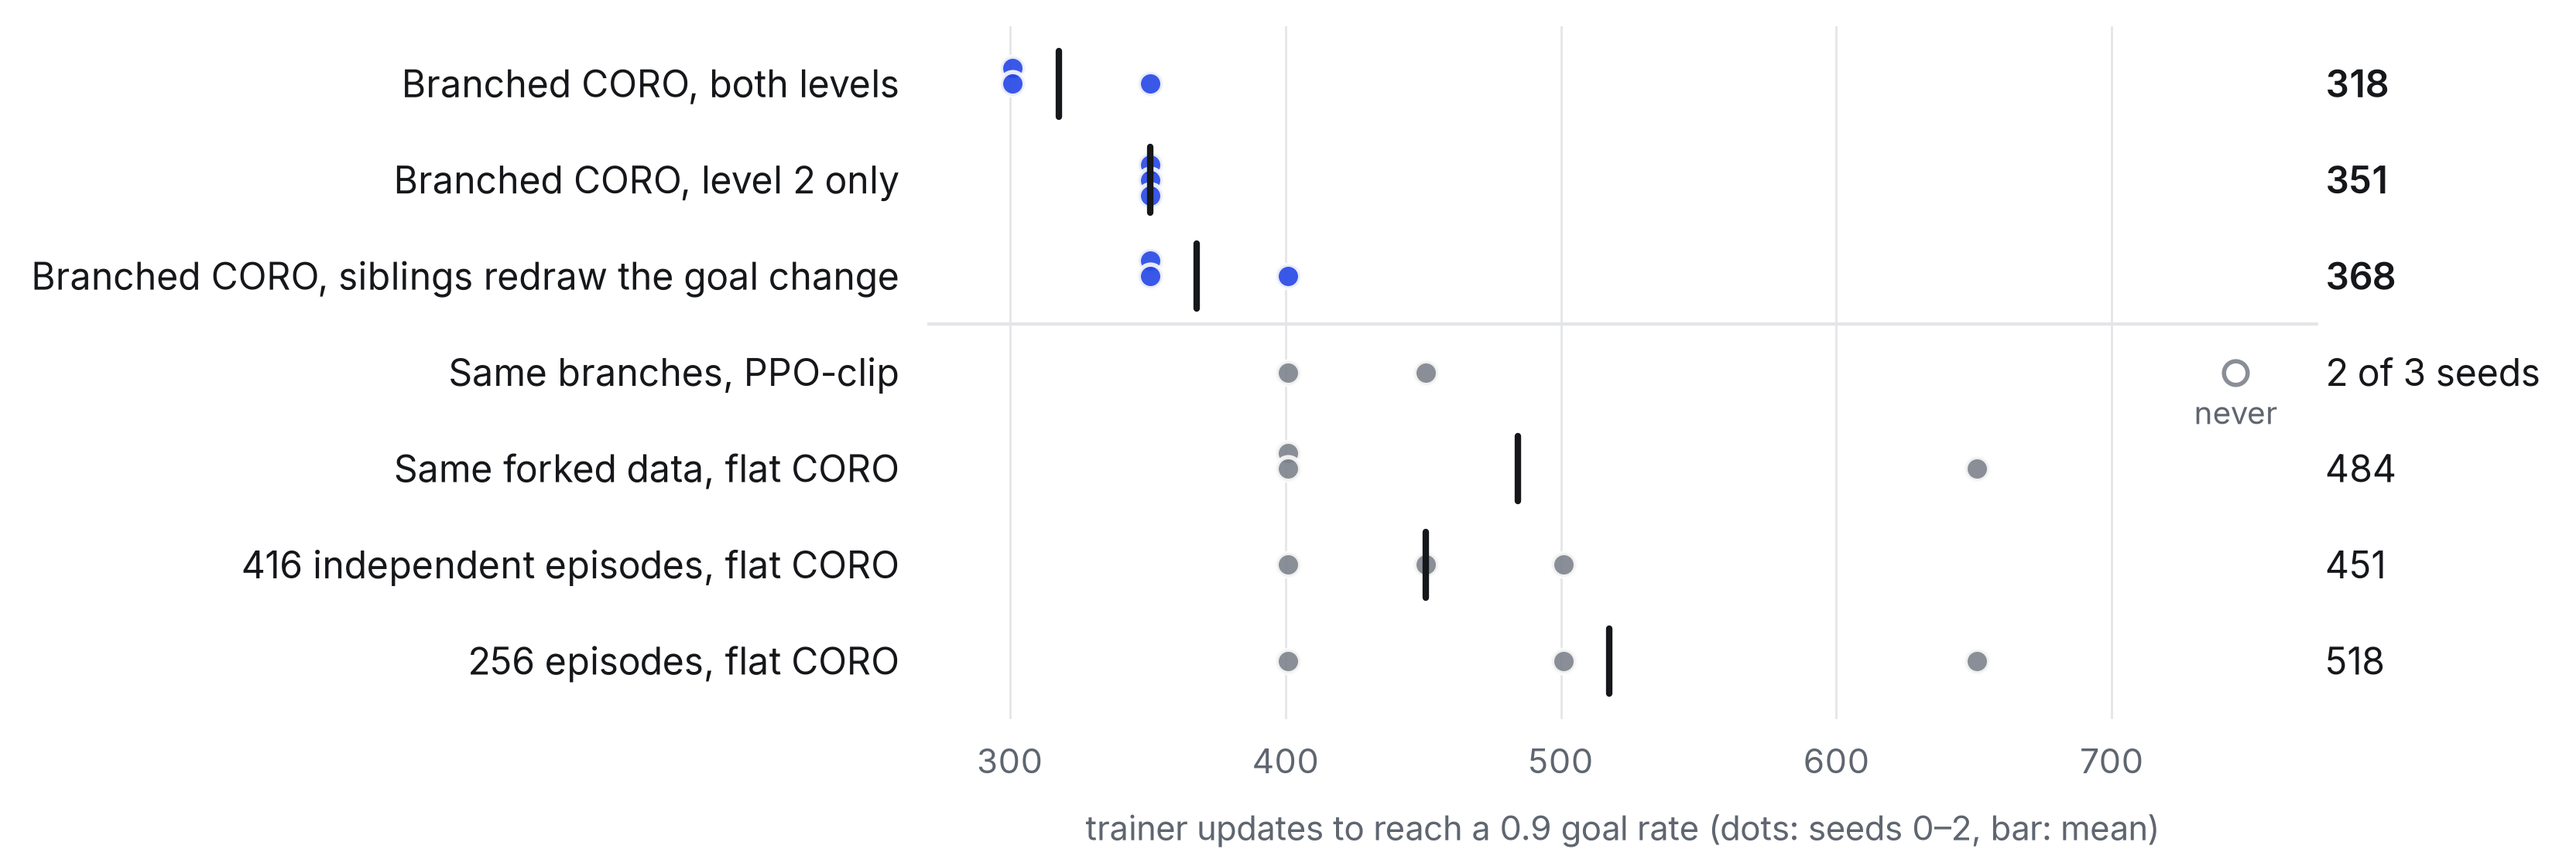
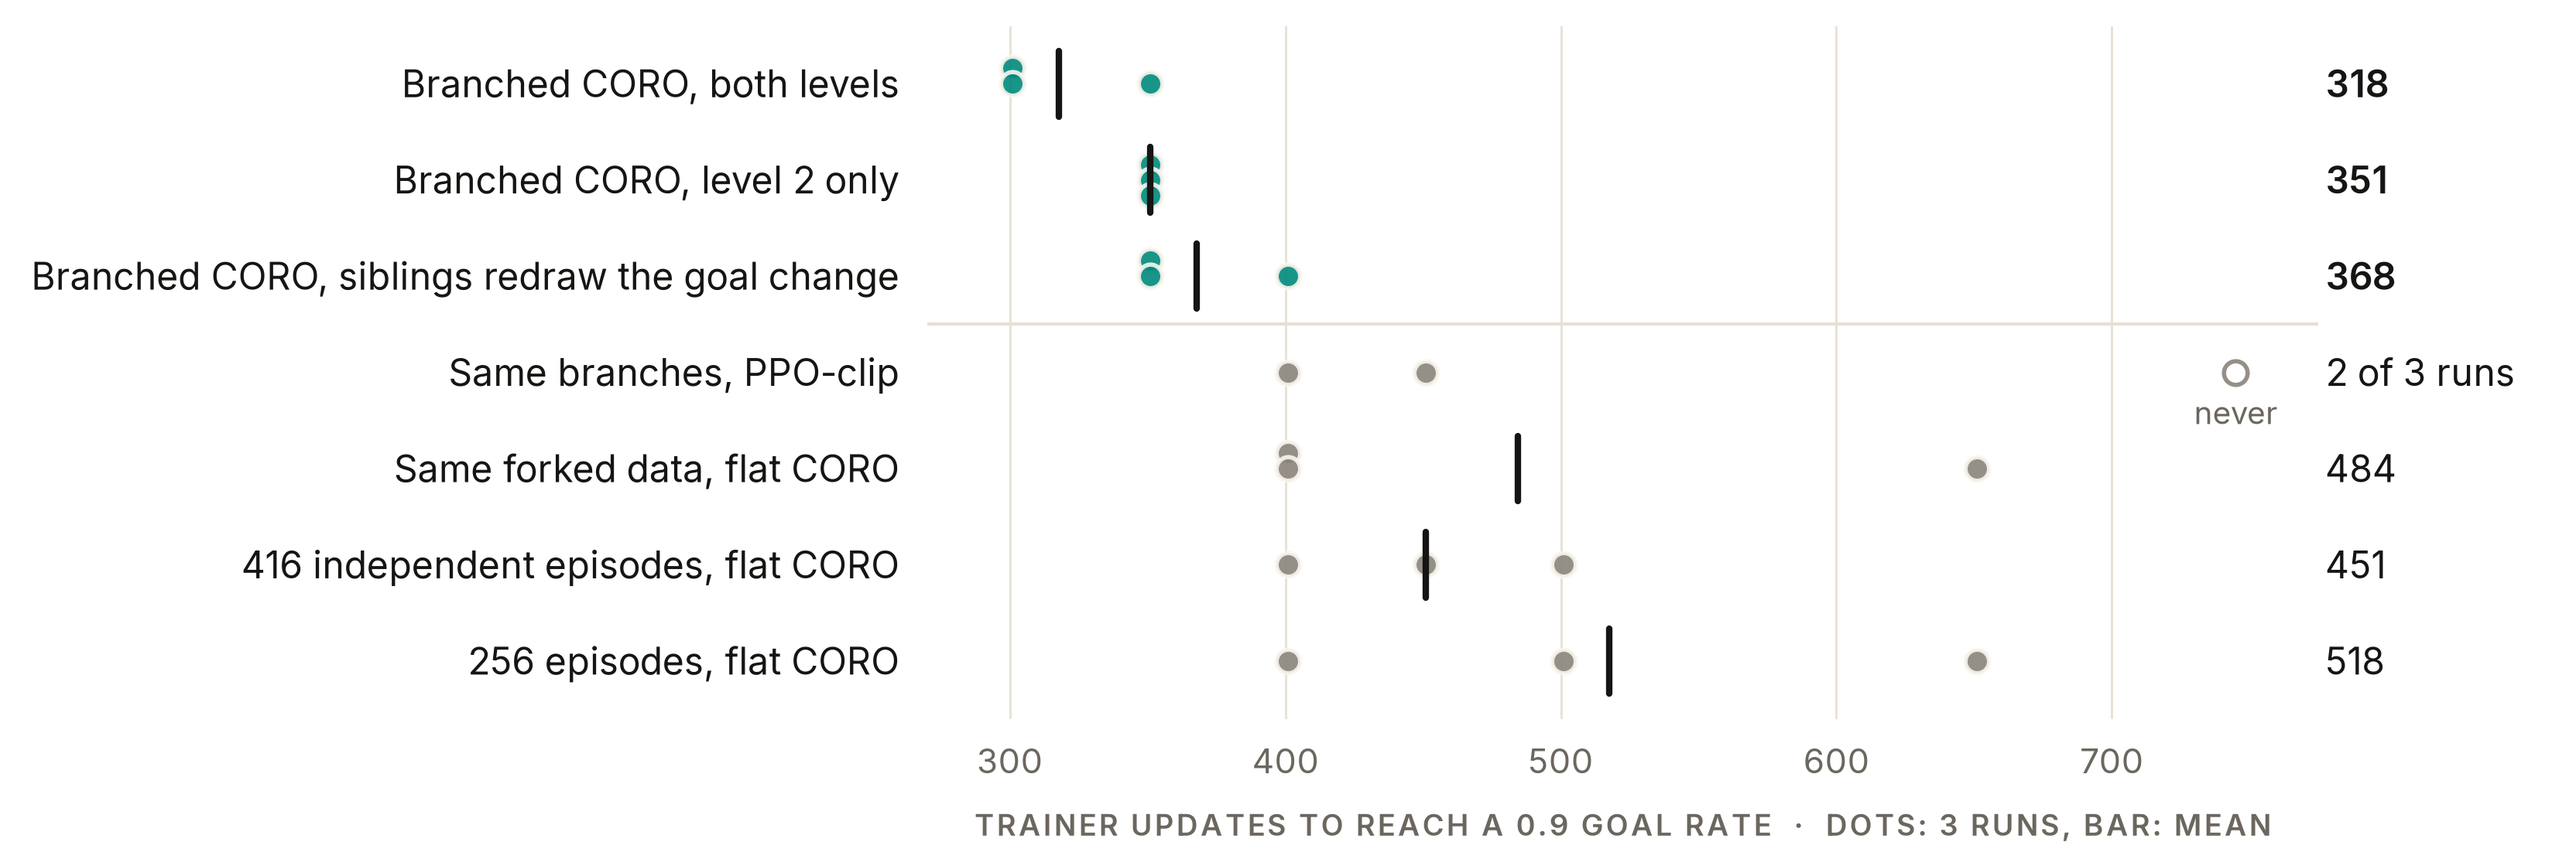
Match talk figures to the humans& research-post style
Teal for Branched CORO, warm greys for baselines, rust for failures,
on a warm paper ground; axis titles in small spaced capitals. Run seeds
are labelled "runs" so they do not clash with CORO's simulation seed.

diff --git a/talk_figs.py b/talk_figs.py
@@ -20,9 +20,10 @@ from runner import Config, staleness  # noqa: E402
 for f in Path(os.environ.get("TALK_FONTS", "/nonexistent")).glob("*.ttf"):
     font_manager.fontManager.addfont(str(f))
 
-# the deck's palette: ink and greys for baselines, one blue for Branched CORO, orange for failures
-INK, MUTED, GRID = "#15171A", "#5F6670", "#E3E5E8"
-BLUE, ORANGE, DARK, GREY, LIGHT = "#2446E6", "#E0592A", "#3B4048", "#7C828C", "#B3B8BF"
+# the deck's palette, after the figures in humans&'s RL posts: warm greys for baselines, one teal for
+# Branched CORO, rust for failures; axis titles in small spaced capitals
+INK, MUTED, GRID, PAPER = "#161513", "#6B675F", "#E6E0D4", "#F9F6EF"
+TEAL, RUST, DARK, GREY, LIGHT = "#00897B", "#B4492F", "#3B3D37", "#8A847A", "#C4BCAE"
 PX = 0.72  # points per slide pixel at dpi 100
 plt.rcParams.update({
     "font.family": ["Inter", "DejaVu Sans"], "font.size": 22 * PX, "axes.titlesize": 24 * PX,
@@ -52,6 +53,20 @@ def label(ax, x, y, text, bold=False, **kw):
     ax.text(x, y, text, color=INK, fontsize=24 * PX, fontweight=600 if bold else 400, va="center", **kw)
 
 
+def caps(text):
+    """Spaced capitals for axis titles; Greek letters keep their case (an upper-case beta reads as B)."""
+    return "\u200a".join(c.upper() if c.isascii() else c for c in text)
+
+
+def titles(ax, y=None, x=None, **kw):
+    """humans&-style axis titles: the y title sits horizontally above the axis, the x title below it."""
+    style = dict(color=MUTED, fontsize=19 * PX, fontweight=600)
+    if y:
+        ax.text(0, 1.035, caps(y), transform=ax.transAxes, va="bottom", ha="left", **style, **kw)
+    if x:
+        ax.set_xlabel(caps(x), **style)
+
+
 def spread(ys, gap, top):
     """Label heights at least gap apart, in the data's order, none above top, so direct labels never overlap."""
     order = np.argsort(ys)[::-1]
@@ -73,18 +88,18 @@ def fig_staleness():
     """Per-turn staleness for 24 episodes of one batch: older at the start, heavy-tailed across episodes."""
     s = staleness(Config(H=16, W=16, U=4, qmax=8), np.random.default_rng(3), 24)
     s = s[np.argsort(s[:, 0])]
-    cmap = LinearSegmentedColormap.from_list("age", ["#EEF1FD", "#9FB1F4", BLUE, "#0E1C66"])
+    cmap = LinearSegmentedColormap.from_list("age", ["#E3EFED", "#8CC3BA", TEAL, "#0F4A44"])
     f, ax = fig(980, 620)
-    m = ax.pcolormesh(s, cmap=cmap, vmin=0, vmax=s.max(), edgecolors="#FCFCFB", linewidth=2.5)
+    m = ax.pcolormesh(s, cmap=cmap, vmin=0, vmax=s.max(), edgecolors=PAPER, linewidth=2.5)
     ax.invert_yaxis()
     ax.grid(False)
     ax.spines["bottom"].set_visible(False)
-    ax.set(xticks=np.array([0, 4, 8, 12, 15]) + 0.5, xticklabels=[0, 4, 8, 12, 15], yticks=[],
-           xlabel="turn within the episode", ylabel="24 episodes from one batch")
+    ax.set(xticks=np.array([0, 4, 8, 12, 15]) + 0.5, xticklabels=[0, 4, 8, 12, 15], yticks=[])
+    titles(ax, "24 episodes from one batch", "turn within the episode")
     cb = f.colorbar(m, ax=ax, pad=0.02, fraction=0.04, aspect=30)
     cb.outline.set_visible(False)
     cb.ax.tick_params(size=0, colors=MUTED)
-    cb.set_label("trainer updates since this turn was sampled", color=MUTED)
+    cb.set_label(caps("trainer updates since this turn was sampled"), color=MUTED, fontsize=19 * PX, fontweight=600)
     save(f, "talk_staleness.png")
 
 
@@ -92,10 +107,10 @@ def fig_main(runs):
     """Goal rate against sampled agent turns, mean of 3 seeds. The arrow joins where the two mean curves cross 0.9;
     the 1.31M and 2.12M quoted on the slide are means of the per-seed crossings."""
     f, ax = fig(1120, 640)
-    spec = [("E5_tree_budget", "Branched CORO + drift budget", BLUE, "-", 4.5),
+    spec = [("E5_tree_budget", "Branched CORO + drift budget", TEAL, "-", 4.5),
             ("E4_coro_budget", "CORO + drift budget", DARK, "-", 3),
             ("E1_ppo", "PPO-clip, and CORO with no budget", LIGHT, "-", 2.5), ("E3_coro", None, LIGHT, "-", 2.5),
-            ("E1b_naive", "ignore staleness", ORANGE, (0, (2, 3)), 2.5)]
+            ("E1b_naive", "ignore staleness", RUST, (0, (2, 3)), 2.5)]
     cross = {}
     for cfg, lab, col, ls, lw in spec:
         xs, ys = zip(*(evals(r) for r in runs[cfg].values()))
@@ -114,8 +129,8 @@ def fig_main(runs):
     ax.text(4.12, 0.155, "chance", color=MUTED, ha="right", fontsize=20 * PX)
     ax.legend(loc="center right", bbox_to_anchor=(1.0, 0.56), frameon=False, labelcolor=INK, fontsize=24 * PX,
               handlelength=1.8, borderaxespad=0)
-    ax.set(xlabel="agent turns sampled (millions)", ylim=(0, 1.04), xlim=(0, 4.15), yticks=[0, 0.25, 0.5, 0.75, 1])
-    ax.set_ylabel("held-out goal rate, mean of 3 seeds")
+    ax.set(ylim=(0, 1.04), xlim=(0, 4.15), yticks=[0, 0.25, 0.5, 0.75, 1])
+    titles(ax, "held-out goal rate, mean of 3 runs", "agent turns sampled (millions)")
     save(f, "talk_main.png")
 
 
@@ -136,7 +151,7 @@ def fig_controls():
     f.subplots_adjust(left=0.36, right=0.90, top=0.97, bottom=0.17)
     never = 745
     for i, (lab, pre, fam) in enumerate(CONTROL_ROWS):
-        col = BLUE if fam == "tree" else GREY
+        col = TEAL if fam == "tree" else GREY
         its = [first_at(read(f"{pre}_s{s}"), "iter") for s in (0, 1, 2)]
         got = [x for x in its if x is not None]
         jit = {}
@@ -144,13 +159,13 @@ def fig_controls():
             v = never if x is None else x
             k = jit.setdefault(v, 0)
             jit[v] += 1
-            ax.plot(v, i + (k - 1) * 0.16 if its.count(x) > 1 else i, "o", ms=11, mew=2, mec="#FCFCFB" if x else col,
+            ax.plot(v, i + (k - 1) * 0.16 if its.count(x) > 1 else i, "o", ms=11, mew=2, mec=PAPER if x else col,
                     color=col if x else "none", alpha=0.9, zorder=4)
         if len(got) == 3:
             ax.plot([np.mean(got)] * 2, [i - 0.34, i + 0.34], color=INK, lw=3, zorder=5)
             txt = f"{np.mean(got):.0f}"
         else:
-            txt = f"{len(got)} of 3 seeds"
+            txt = f"{len(got)} of 3 runs"
         ax.text(1.005, i, txt, transform=ax.get_yaxis_transform(), color=INK, va="center",
                 fontsize=24 * PX, fontweight=600 if fam == "tree" else 400)
         ax.text(-0.02, i, lab, transform=ax.get_yaxis_transform(), color=INK, va="center", ha="right", fontsize=24 * PX)
@@ -160,7 +175,7 @@ def fig_controls():
     ax.grid(axis="x")
     ax.grid(axis="y", visible=False)
     ax.spines["bottom"].set_visible(False)
-    ax.set_xlabel("trainer updates to reach a 0.9 goal rate (dots: seeds 0–2, bar: mean)")
+    titles(ax, x="trainer updates to reach a 0.9 goal rate  ·  dots: 3 runs, bar: mean")
     save(f, "talk_controls.png", tight=False)
 
 
@@ -168,13 +183,13 @@ def fig_severity():
     names = [{"ppo": "m_E1_ppo", "oapl": "m_E2_oapl", "coro": "m_E3_coro", "none": "m_E1b_naive"}] + \
             [{o: f"sev_q{q}_{o}" for o in ("ppo", "oapl", "coro", "none")} for q in (16, 48)]
     f, ax = fig(1000, 620)
-    f.subplots_adjust(left=0.11, right=0.74, top=0.96, bottom=0.15)
+    f.subplots_adjust(left=0.11, right=0.74, top=0.9, bottom=0.15)
     ends = []
     for obj, lab, col, mk, ls in [("ppo", "PPO-clip", DARK, "o", "-"), ("oapl", "OAPL", GREY, "s", "-"),
-                                  ("coro", "CORO", LIGHT, "D", "-"), ("none", "ignore staleness", ORANGE, "o", (0, (2, 3)))]:
+                                  ("coro", "CORO", LIGHT, "D", "-"), ("none", "ignore staleness", RUST, "o", (0, (2, 3)))]:
         v = [[final_goal(n[obj], s) for s in (0, 1, 2)] for n in names]
         means = [np.mean(vs) for vs in v]
-        ax.plot(range(3), means, color=col, lw=3, ls=ls, marker=mk, ms=11, mec="#FCFCFB", mew=2)
+        ax.plot(range(3), means, color=col, lw=3, ls=ls, marker=mk, ms=11, mec=PAPER, mew=2)
         ends.append((means[-1], lab))
     ys = spread([e[0] for e in ends], 0.07, 1.0)
     for (_, lab), y in zip(ends, ys):
@@ -182,8 +197,8 @@ def fig_severity():
     ax.axhline(1 / 8, color=MUTED, lw=1, ls=(0, (1, 3)))
     ax.text(0, 0.155, "chance", color=MUTED, fontsize=20 * PX)
     ax.set_xticks(range(3), ["11", "31", "63"])
-    ax.set(xlabel="maximum staleness within an episode (trainer updates)", ylabel="final goal rate, mean of 3 seeds",
-           ylim=(0, 1.05), xlim=(-0.15, 2.1))
+    ax.set(ylim=(0, 1.05), xlim=(-0.15, 2.1))
+    titles(ax, "final goal rate, mean of 3 runs", "maximum staleness within an episode (trainer updates)")
     save(f, "talk_severity.png", tight=False)
 
 
@@ -193,10 +208,10 @@ def fig_turn_budget():
     f = plt.figure(figsize=(16.64, 5.6))
     a0 = f.add_axes([0.04, 0.15, 0.36, 0.74])
     a1 = f.add_axes([0.67, 0.15, 0.31, 0.74])
-    curves = [("Branched CORO + budget", "r_E5_tree_budget", BLUE, "-", 4.5),
+    curves = [("Branched CORO + budget", "r_E5_tree_budget", TEAL, "-", 4.5),
               ("KL penalty, β replayed", "c_e7_betaE5", DARK, (0, (4, 3)), 2.5),
-              ("per-turn KL penalty", "e7_lr100", ORANGE, "-", 3),
-              ("per-turn β", "m_E6_tree_turnbudget", ORANGE, (0, (2, 3)), 3)]
+              ("per-turn KL penalty", "e7_lr100", RUST, "-", 3),
+              ("per-turn β", "m_E6_tree_turnbudget", RUST, (0, (2, 3)), 3)]
     ends = []
     for lab, pre, col, ls, lw in curves:
         x, m, _ = by_update([f"{pre}_s{s}" for s in (0, 1, 2)])
@@ -205,36 +220,36 @@ def fig_turn_budget():
     for (_, lab, fin), y in zip(ends, spread([e[0] for e in ends], 0.075, 1.0)):
         label(a0, 1025, y, f"{lab}  {fin:.2f}", bold=lab.startswith("Branched"))
     a0.text(1025, 1.09, "final", color=MUTED, fontsize=20 * PX)
-    a0.set(ylim=(0, 1.04), xlim=(0, 1000), xlabel="trainer updates", yticks=[0, 0.25, 0.5, 0.75, 1])
-    a0.set_title("held-out goal rate, mean of 3 seeds", loc="left", color=INK, pad=14)
-    for pre, col, lab, xy in (("m_E5_tree_budget", BLUE, "Branched CORO", (650, 0.04)),
-                              ("e7_lr100", ORANGE, "per-turn KL penalty", (300, 4e-3))):
+    a0.set(ylim=(0, 1.04), xlim=(0, 1000), yticks=[0, 0.25, 0.5, 0.75, 1])
+    titles(a0, "held-out goal rate, mean of 3 runs", "trainer updates")
+    for pre, col, lab, xy in (("m_E5_tree_budget", TEAL, "Branched CORO", (650, 0.04)),
+                              ("e7_lr100", RUST, "per-turn KL penalty", (300, 4e-3))):
         b = np.mean([[r["beta"] for r in read(f"{pre}_s{s}")] for s in (0, 1, 2)], 0)
-        a1.plot(np.arange(1, len(b) + 1), b, color=col, lw=3.5 if col == BLUE else 3)
+        a1.plot(np.arange(1, len(b) + 1), b, color=col, lw=3.5 if col == TEAL else 3)
         label(a1, *xy, lab)
     a1.axhline(1e-3, color=MUTED, lw=1, ls=(0, (1, 3)))
     a1.text(30, 1.25e-3, "floor", color=MUTED, fontsize=20 * PX)
-    a1.set(yscale="log", xlim=(0, 1000), ylim=(7e-4, 0.6), xlabel="trainer updates")
-    a1.set_title("global β, log scale", loc="left", color=INK, pad=14)
+    a1.set(yscale="log", xlim=(0, 1000), ylim=(7e-4, 0.6))
+    titles(a1, "global β, log scale", "trainer updates")
     save(f, "talk_turn_budget.png", tight=False)
 
 
 def fig_beta_sweep():
     """Fixed beta from the first update, no drift budget: too small never learns, too large is slow."""
     f, ax = fig(1100, 620)
-    f.subplots_adjust(left=0.1, right=0.97, top=0.96, bottom=0.15)
-    for (obj, runs), col, off in zip(BETA_SWEEP.items(), (DARK, BLUE), (0.92, 1.09)):
+    f.subplots_adjust(left=0.1, right=0.97, top=0.9, bottom=0.15)
+    for (obj, runs), col, off in zip(BETA_SWEEP.items(), (DARK, TEAL), (0.92, 1.09)):
         bs, means = sorted(runs), []
         for b in bs:
             its = [first_at(read(f"{runs[b]}_s{s}"), "iter") or 1000 for s in (0, 1, 2)]
             ax.plot([b * off] * 3, its, "o", color=col, ms=9, alpha=0.35, mew=0)
             means.append(np.mean(its))
-        ax.plot(bs, means, color=col, lw=4.5 if col == BLUE else 3, marker="o", ms=11, mec="#FCFCFB", mew=2)
-        label(ax, 4.2, means[-1], obj, bold=col == BLUE)
+        ax.plot(bs, means, color=col, lw=4.5 if col == TEAL else 3, marker="o", ms=11, mec=PAPER, mew=2)
+        label(ax, 4.2, means[-1], obj, bold=col == TEAL)
     ax.axhline(1000, color=MUTED, lw=1, ls=(0, (1, 3)))
     ax.text(1.4e-3, 1035, "never reached 0.9 (drawn at 1000)", color=MUTED, fontsize=20 * PX)
-    ax.set(xscale="log", ylim=(250, 1080), xlim=(7e-4, 30), xticks=[1e-3, 0.03, 0.3, 3], xticklabels=["0.001", "0.03", "0.3", "3"],
-           xlabel="β, fixed from the first update", ylabel="updates to reach 0.9")
+    ax.set(xscale="log", ylim=(250, 1080), xlim=(7e-4, 30), xticks=[1e-3, 0.03, 0.3, 3], xticklabels=["0.001", "0.03", "0.3", "3"])
+    titles(ax, "trainer updates to reach 0.9", "β, fixed from the first update")
     save(f, "talk_beta_sweep.png", tight=False)
 
 
@@ -243,13 +258,13 @@ def fig_branch():
     f, ax = fig(1000, 520)
     ax.axis("off")
     b, H, k = 6, 16, 4
-    ax.plot(range(b + 1), [0] * (b + 1), color=INK, lw=4, marker="o", ms=10, mec="#FCFCFB", mew=2, zorder=3)
+    ax.plot(range(b + 1), [0] * (b + 1), color=INK, lw=4, marker="o", ms=10, mec=PAPER, mew=2, zorder=3)
     for e, ok in zip(np.linspace(1.6, -1.6, k), (True, False, True, False)):
         xs = np.arange(b, H)
         ys = e * (1 - np.exp(-(xs - b) / 1.6))
-        ax.plot(xs, ys, color=BLUE, lw=3, marker="o", ms=8, mec="#FCFCFB", mew=1.5, zorder=2)
+        ax.plot(xs, ys, color=TEAL, lw=3, marker="o", ms=8, mec=PAPER, mew=1.5, zorder=2)
         label(ax, H - 0.35, ys[-1], "r = 1" if ok else "r = 0", bold=ok)
-    ax.plot(b, 0, "o", ms=18, color="#FCFCFB", mec=INK, mew=3, zorder=4)
+    ax.plot(b, 0, "o", ms=18, color=PAPER, mec=INK, mew=3, zorder=4)
     label(ax, b - 0.3, -0.55, "fork at turn b", ha="right")
     for x0, x1, txt in ((0, b, "shared prefix, sampled once"), (b, H - 1, "k = 4 continuations of the same state")):
         ax.annotate("", xy=(x1, -2.25), xytext=(x0, -2.25), arrowprops=dict(arrowstyle="|-|", color=MUTED, lw=1.5,
